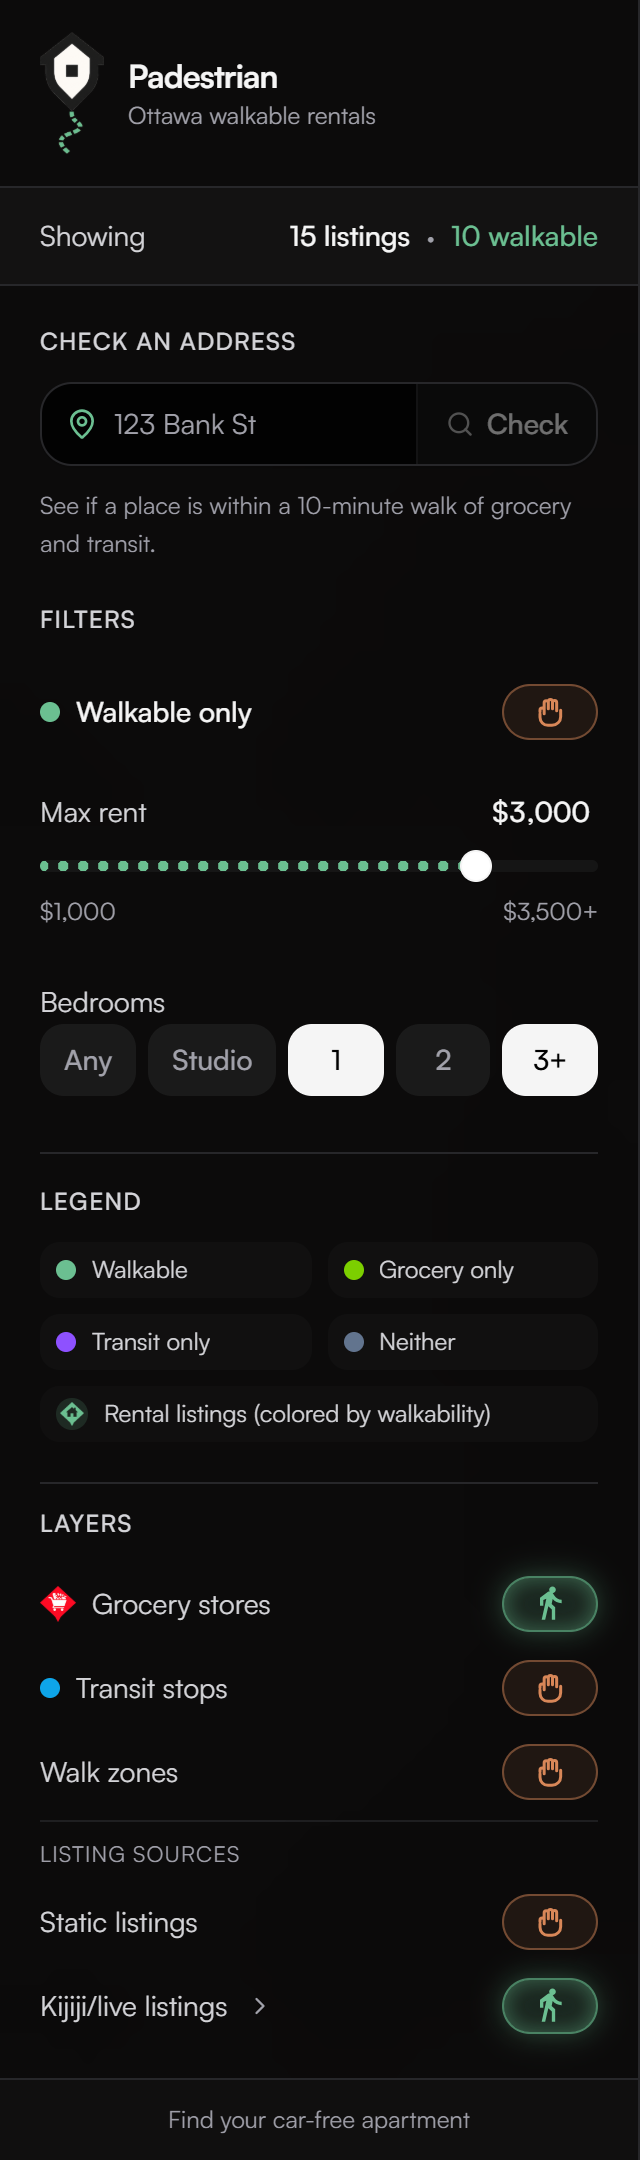
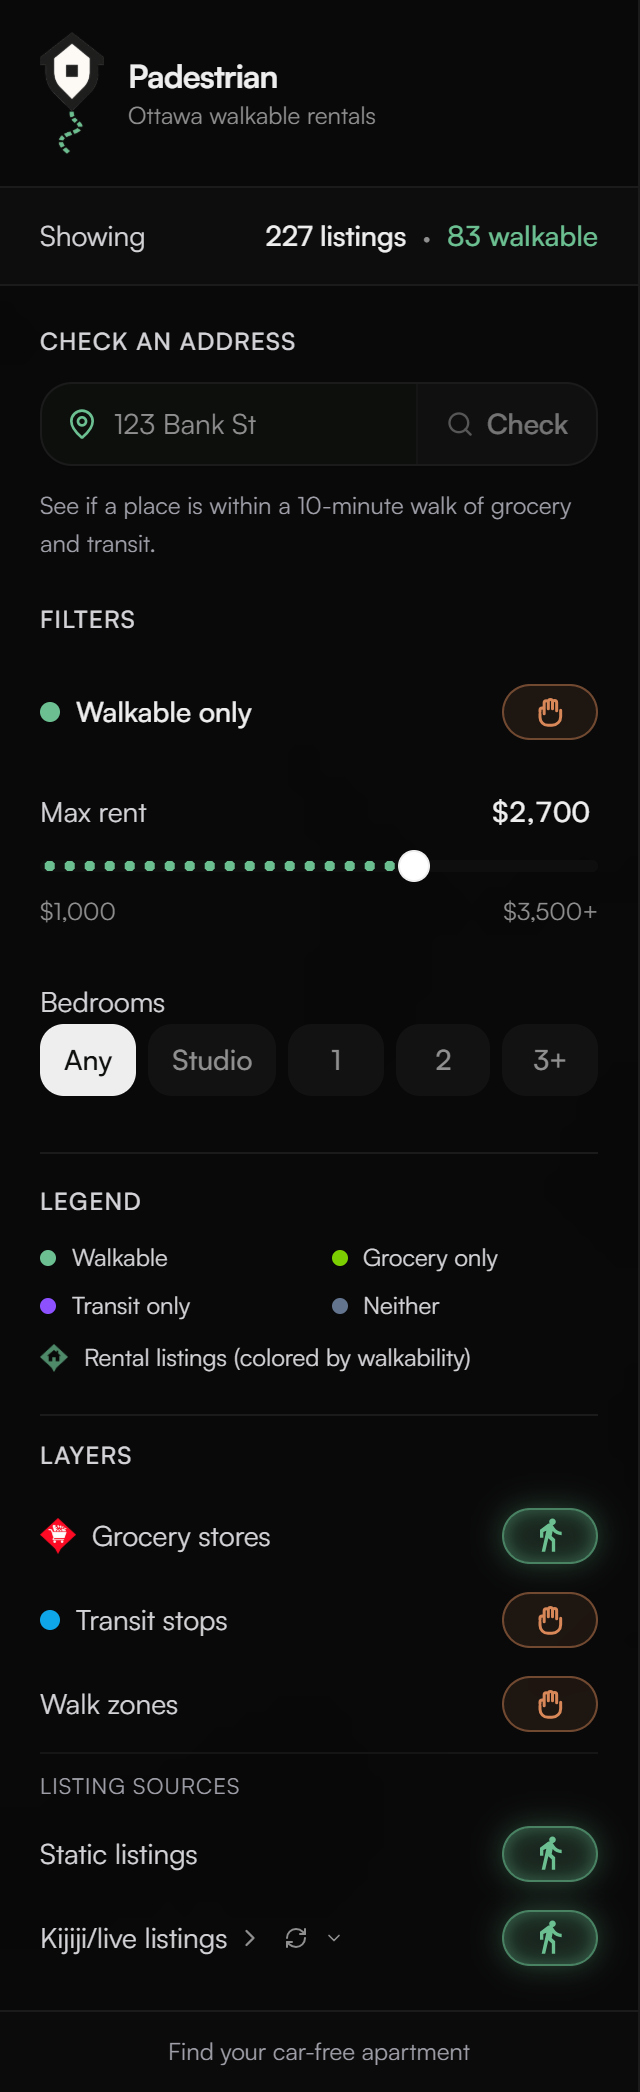
'locate me' and data last updated features implemented

diff --git a/components/map/filter-panel.tsx b/components/map/filter-panel.tsx
@@ -11,6 +11,14 @@ import type { GeocodeResult } from "@/lib/geocode"
 import { buildKijijiListItems, type KijijiListItem } from "@/lib/kijiji-listings"
 import { cn } from "@/lib/utils"
 
+function formatRelative(iso: string): string {
+  const diff = Math.floor((Date.now() - new Date(iso).getTime()) / 1000)
+  if (diff < 60) return "just now"
+  if (diff < 3600) return `${Math.floor(diff / 60)} min ago`
+  if (diff < 86400) return `${Math.floor(diff / 3600)} hr ago`
+  return `${Math.floor(diff / 86400)} days ago`
+}
+
 interface Filters {
   walkableOnly: boolean
   maxRent: number
@@ -40,6 +48,7 @@ interface FilterPanelProps {
   onSelectAddress: (result: GeocodeResult) => void
   onClearCustomAddress: () => void
   listingsData: FeatureCollection | null
+  listingsUpdatedAt?: string
   onFocusKijijiListing: (item: KijijiListItem) => void
   selectedKijijiId: string | null
 }
@@ -67,6 +76,7 @@ export function FilterPanel({
   onSelectAddress,
   onClearCustomAddress,
   listingsData,
+  listingsUpdatedAt,
   onFocusKijijiListing,
   selectedKijijiId,
 }: FilterPanelProps) {
@@ -311,7 +321,14 @@ export function FilterPanel({
           style={section(80)}
         >
           <div className="flex items-center justify-between">
-            <span className="text-sm text-muted-foreground dark:text-zinc-300">Showing</span>
+            <div className="flex flex-col gap-0.5">
+              <span className="text-sm text-muted-foreground dark:text-zinc-300">Showing</span>
+              {listingsUpdatedAt && (
+                <span className="text-[10px] text-muted-foreground/60">
+                  Updated {formatRelative(listingsUpdatedAt)}
+                </span>
+              )}
+            </div>
             <div className="flex items-center gap-2">
               <span className="text-sm font-medium text-foreground">{stats.total} listings</span>
               <span className="text-muted-foreground">·</span>

diff --git a/app/page.tsx b/app/page.tsx
@@ -52,6 +52,7 @@ export default function Page() {
   })
 
   const [listingsData, setListingsData] = useState<FeatureCollection | null>(null)
+  const [listingsUpdatedAt, setListingsUpdatedAt] = useState<string | null>(null)
   const [customListing, setCustomListing] = useState<Feature<Point> | null>(null)
   const [isCheckingAddress, setIsCheckingAddress] = useState(false)
   const [addressError, setAddressError] = useState<string | null>(null)
@@ -83,6 +84,8 @@ export default function Page() {
 
   const handleListingsChange = useCallback((fc: FeatureCollection) => {
     setListingsData(fc)
+    const ts = (fc as FeatureCollection & { generated_at?: string }).generated_at
+    if (ts) setListingsUpdatedAt(ts)
   }, [])
 
   const applyGeocodedAddress = useCallback(async (geocoded: GeocodeResult) => {
@@ -132,6 +135,13 @@ export default function Page() {
     setAddressError(null)
   }, [])
 
+  const handleLocateMe = useCallback(
+    async (lon: number, lat: number) => {
+      await applyGeocodedAddress({ label: "Your location", lon, lat })
+    },
+    [applyGeocodedAddress],
+  )
+
   const handleFocusKijijiListing = useCallback(
     (item: KijijiListItem) => {
       if (!layers.kijijiListings) {
@@ -160,6 +170,7 @@ export default function Page() {
         onListingsChange={handleListingsChange}
         focusListing={focusListing}
         focusListingKey={focusListingKey}
+        onLocateMe={handleLocateMe}
       />
       <FilterPanel
         filters={filters}
@@ -176,6 +187,7 @@ export default function Page() {
         onSelectAddress={handleSelectAddress}
         onClearCustomAddress={handleClearCustomAddress}
         listingsData={listingsData}
+        listingsUpdatedAt={listingsUpdatedAt ?? undefined}
         onFocusKijijiListing={handleFocusKijijiListing}
         selectedKijijiId={selectedKijijiId}
       />

diff --git a/components/map/map-view.tsx b/components/map/map-view.tsx
@@ -1,7 +1,7 @@
 "use client"
 
 import { useRef, useCallback, useState, useEffect } from "react"
-import Map, { NavigationControl, Popup, Source, Layer, type MapRef } from "react-map-gl/mapbox"
+import Map, { NavigationControl, GeolocateControl, Popup, Source, Layer, type MapRef } from "react-map-gl/mapbox"
 import type { MapLayerMouseEvent } from "react-map-gl/mapbox"
 import type { GeoJSON } from "geojson"
 import "mapbox-gl/dist/mapbox-gl.css"
@@ -78,6 +78,7 @@ interface MapViewProps {
   onListingsChange?: (fc: GeoJSON.FeatureCollection) => void
   focusListing: MapFocusListing | null
   focusListingKey: number
+  onLocateMe?: (lon: number, lat: number) => void
 }
 
 /** Same as grocery POI popups — scalar offset works with Mapbox anchor-bottom */
@@ -93,6 +94,7 @@ export function MapView({
   onListingsChange,
   focusListing,
   focusListingKey,
+  onLocateMe,
 }: MapViewProps) {
   const mapRef = useRef<MapRef>(null)
   const [popupInfo, setPopupInfo]   = useState<PopupInfo | null>(null)
@@ -427,6 +429,14 @@ export function MapView({
       onMouseLeave={handleMouseLeave}
     >
       <NavigationControl position="bottom-right" />
+      {onLocateMe && (
+        <GeolocateControl
+          position="bottom-right"
+          trackUserLocation={false}
+          showAccuracyCircle={false}
+          onGeolocate={(e) => onLocateMe(e.coords.longitude, e.coords.latitude)}
+        />
+      )}
 
       {/* ── Listings (pre-colored house icons, same pattern as groceries) ── */}
       {listings && houseIconReady && (

diff --git a/padestrian/filter_listings.py b/padestrian/filter_listings.py
@@ -23,6 +23,7 @@ from __future__ import annotations
 
 import json
 from dataclasses import dataclass
+from datetime import datetime, timezone
 from pathlib import Path
 from typing import Any
 
@@ -191,6 +192,7 @@ def score_listings(
         scored_features,
         metadata={
             "generator": "padestrian filter-listings",
+            "generated_at": datetime.now(timezone.utc).isoformat(timespec="seconds"),
             "walk_minutes": minutes,
             "grocery_zone_source": grocery_src,
             "transit_zone_source": transit_src,

diff --git a/data/README.md b/data/README.md
@@ -96,7 +96,7 @@ Scraped with `python -m padestrian scrape-listings`; snapshot in `listings.kijij
 - **New scrapes:** `normalize_listing` parses baths from attribute text, title, description, and URL slug.
 - **Existing JSON** (title + URL only): `python -m padestrian backfill-bathrooms --fetch` reads each ad’s `vip-attributes-section` over HTTP (e.g. `1 Bathrooms`), then `validate-listings` and `filter-listings`.
 
-**In-app refresh (local dev only):** The sidebar has a refresh button next to "Kijiji/live listings" with two modes -- *Prune* (remove dead ads + rescore) and *Prune + scrape* (also fetch new ads). Calls `/api/refresh-kijiji` which streams step-by-step progress while chaining the Python CLI commands. Not available on Vercel.
+**In-app refresh:** The sidebar has a refresh button next to "Kijiji/live listings" with two modes — *Prune* (remove dead ads + rescore) and *Prune + scrape* (also fetch new ads). Calls `/api/refresh-kijiji` which streams step-by-step progress while chaining the Python CLI commands. Requires a local Python environment.
 
 ## Walk zones (`data/zones/`)
 
@@ -111,7 +111,7 @@ Transit is **off by default** (~5.8k stops). Use `--transit --transit-limit 50` 
 
 ## Web app: “Check an address”
 
-The Next.js map can score **any Ottawa address** in the browser (no Python on Vercel). It uses the same rules as `filter-listings`:
+The Next.js map can score **any Ottawa address** in the browser. It uses the same rules as `filter-listings`:
 
 | Need | File |
 |------|------|
@@ -119,4 +119,4 @@ The Next.js map can score **any Ottawa address** in the browser (no Python on Ve
 | Transit walk | `zones/transit-10min.geojson` optional; `stops.geojson` always used for nearest-stop fallback |
 | Rental pins on map | `listings-scored.geojson` |
 
-Run `build-zones` and `filter-listings` locally, then serve files under `/data/` (see root README **Deploying to Vercel**). Custom addresses are **not** written to `listings.json`; they live in the user’s `localStorage` only.
+Run `build-zones` and `filter-listings` locally, then serve the files under `/data/`. Custom addresses are **not** written to `listings.json`; they live in the user’s `localStorage` only.